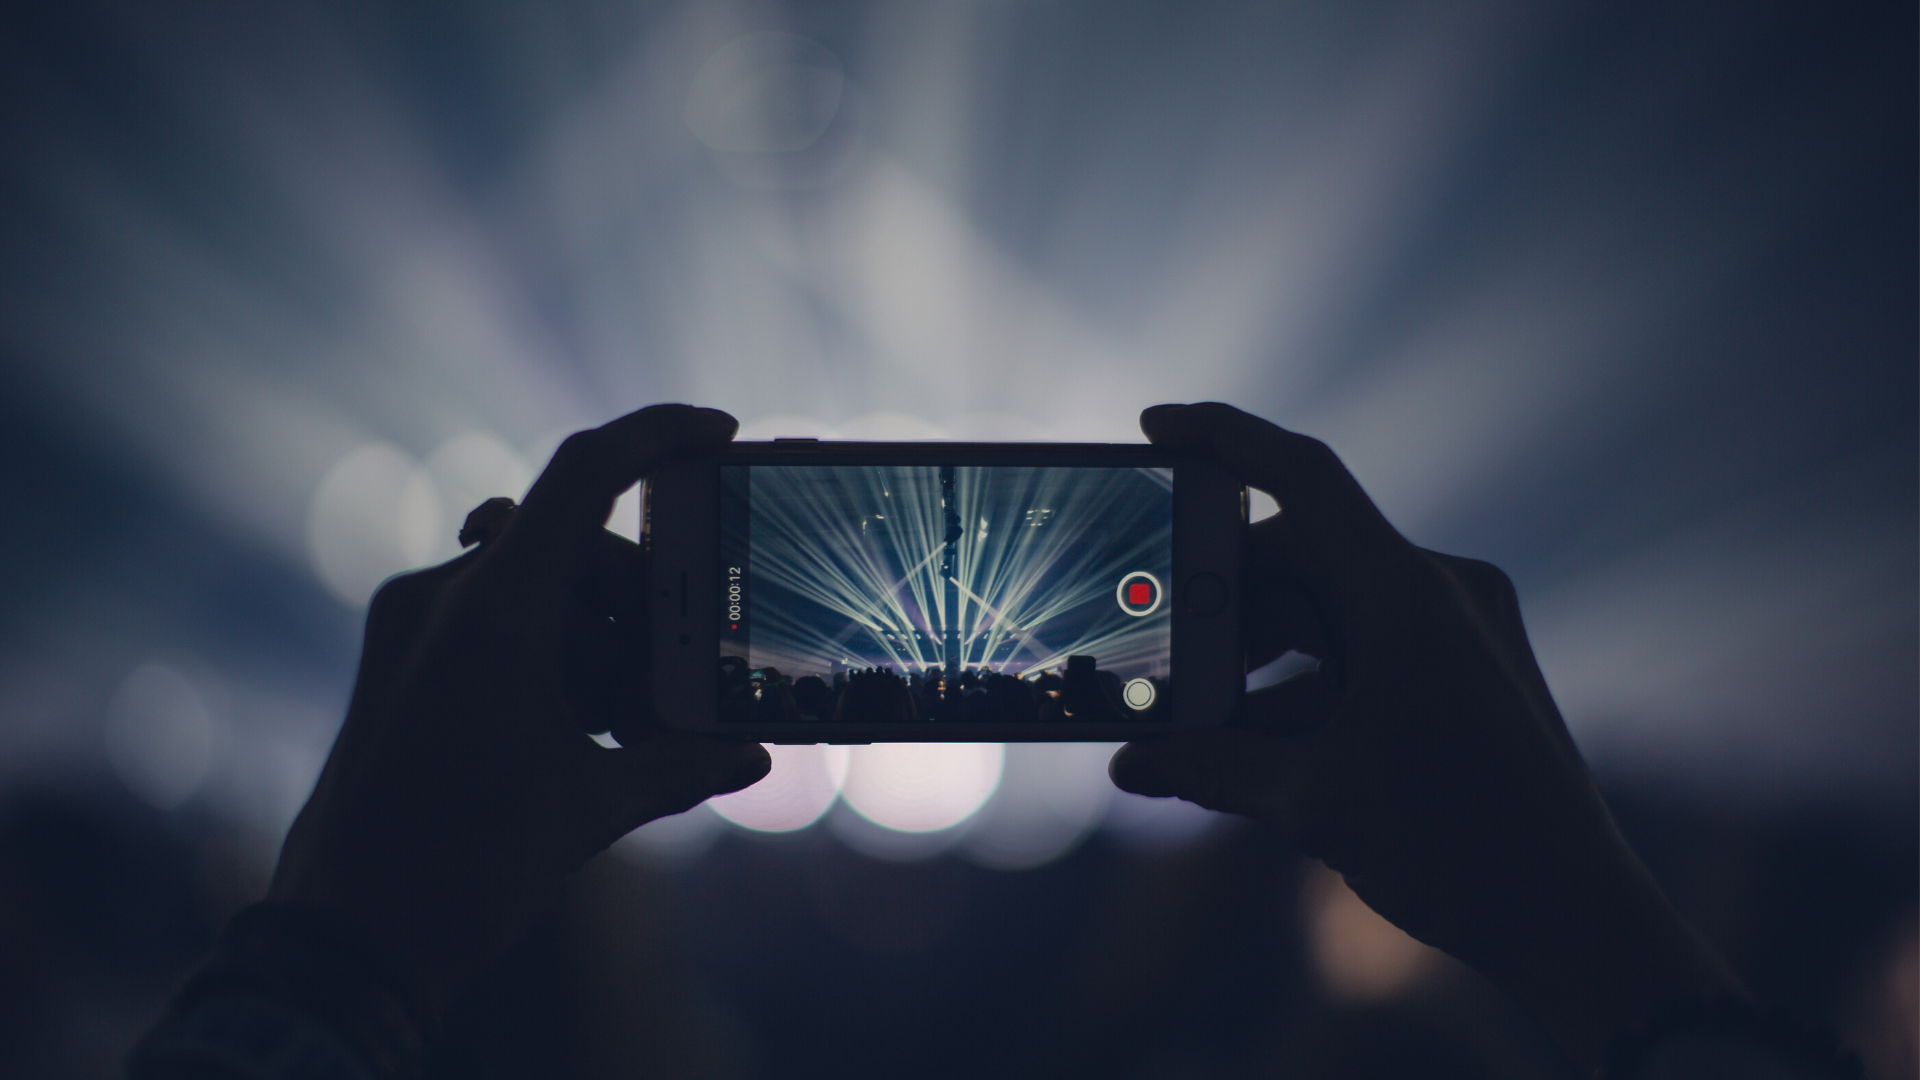
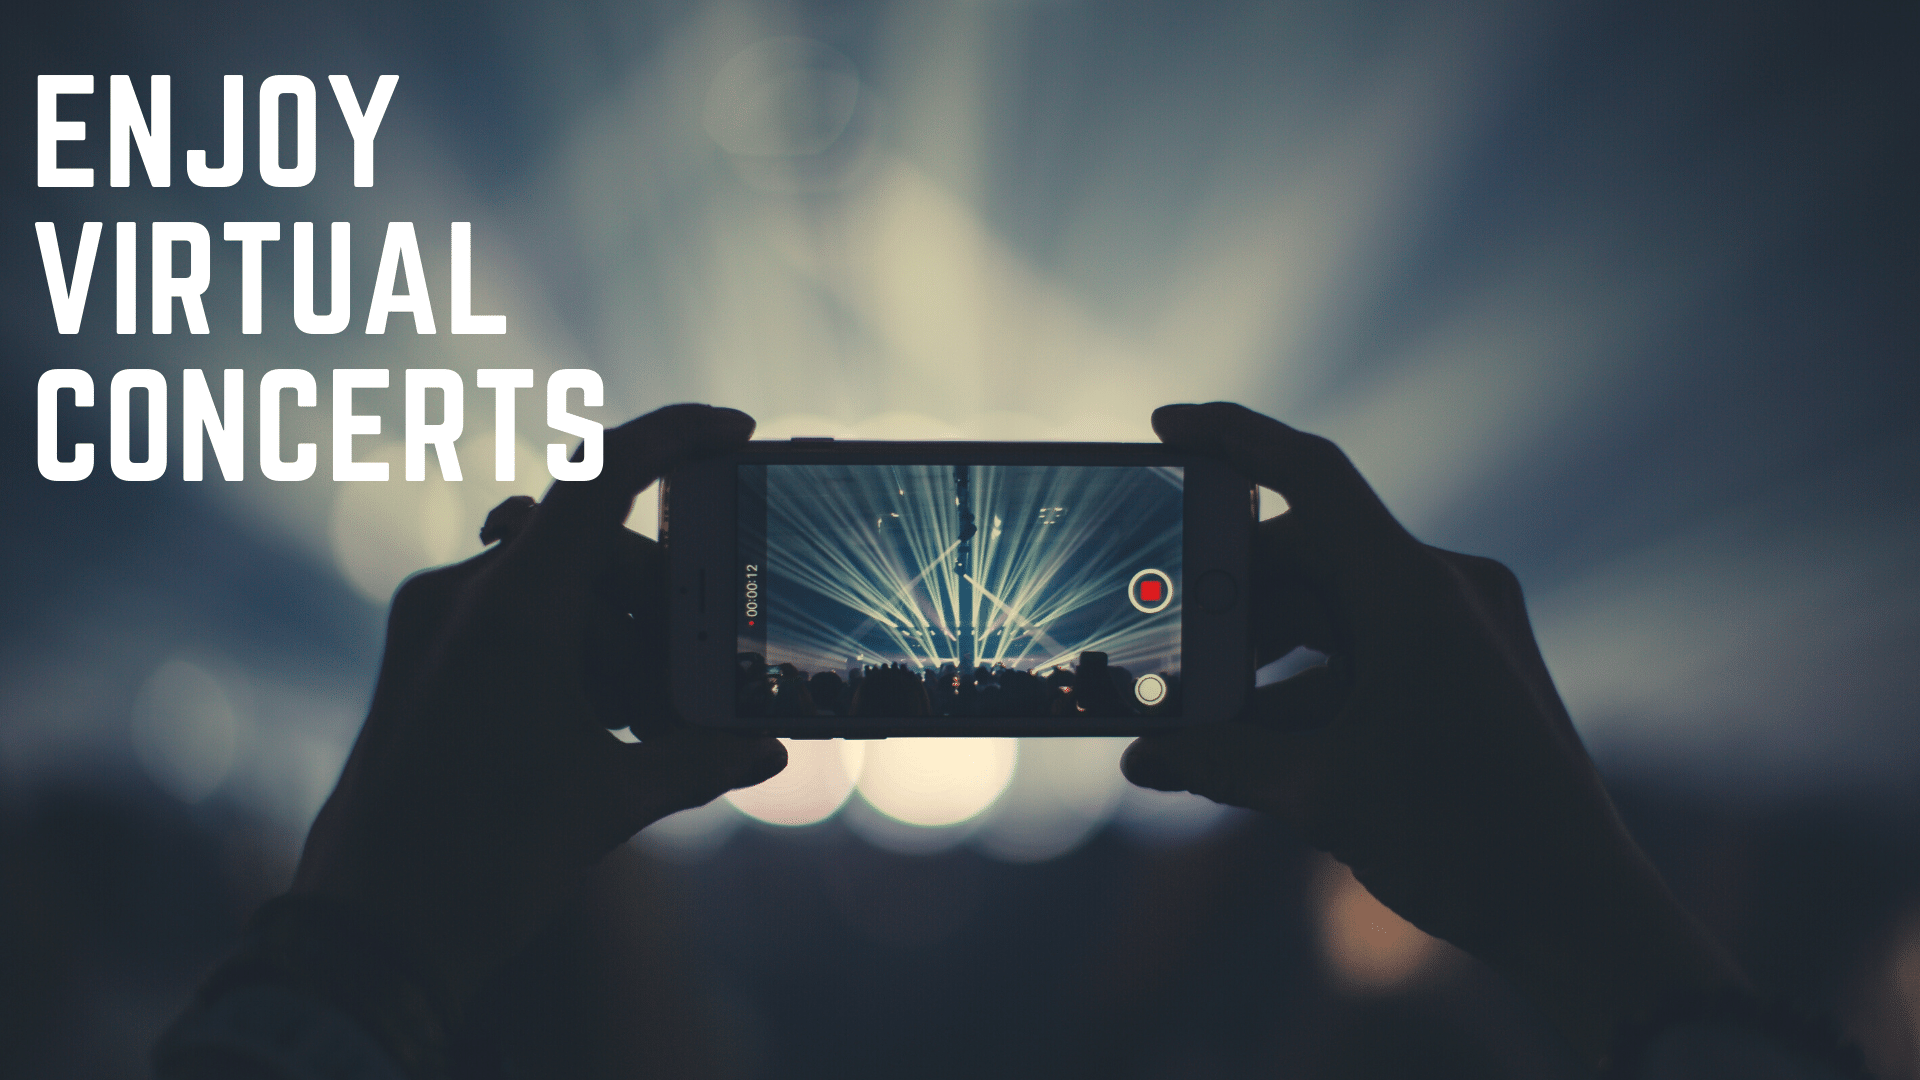
added new image to slide 1

diff --git a/src/pages/Profile.component.jsx b/src/pages/Profile.component.jsx
@@ -96,6 +96,7 @@ const ModalExample = (props) => {
 
   async function displayRazorPay() {
 
+
     const res = await loadScript('https://checkout.razorpay.com/v1/checkout.js')
     // var user = firebase.auth().currentUser;
    // var user = auth.currentUser;
@@ -117,13 +118,14 @@ const ModalExample = (props) => {
 
      // console.log(data)
      
-      let str = props.price *100
+    
       const options = {
-        key: 'rzp_test_H0teHdXhlYCfKK',
+        key: 'rzp_live_IAW7Yh1zAJk9XQ',
         currency: 'INR',
         amount:  `${props.price  * 100} `,
         // logo:   
-        description: `${props.eventtitle}`,
+      
+        description: `${props.eventtitle}: ${props.artitstName}`,
         
         handler: function (response) {
           if ( typeof response.razorpay_payment_id == 'undefined' ||  response.razorpay_payment_id > 1) {

diff --git a/src/components/Carousel/carousel.component.jsx b/src/components/Carousel/carousel.component.jsx
@@ -6,7 +6,7 @@ import './carousel.styles.scss'
 
 const items = [
   {
-    src: require('../../assets/img/bg1.png'),
+    src: require('../../assets/img/slide.png'),
     altText: 'Slide 1',
     // caption: 'Slide 1',
     // header: 'Slide 1 Header',
